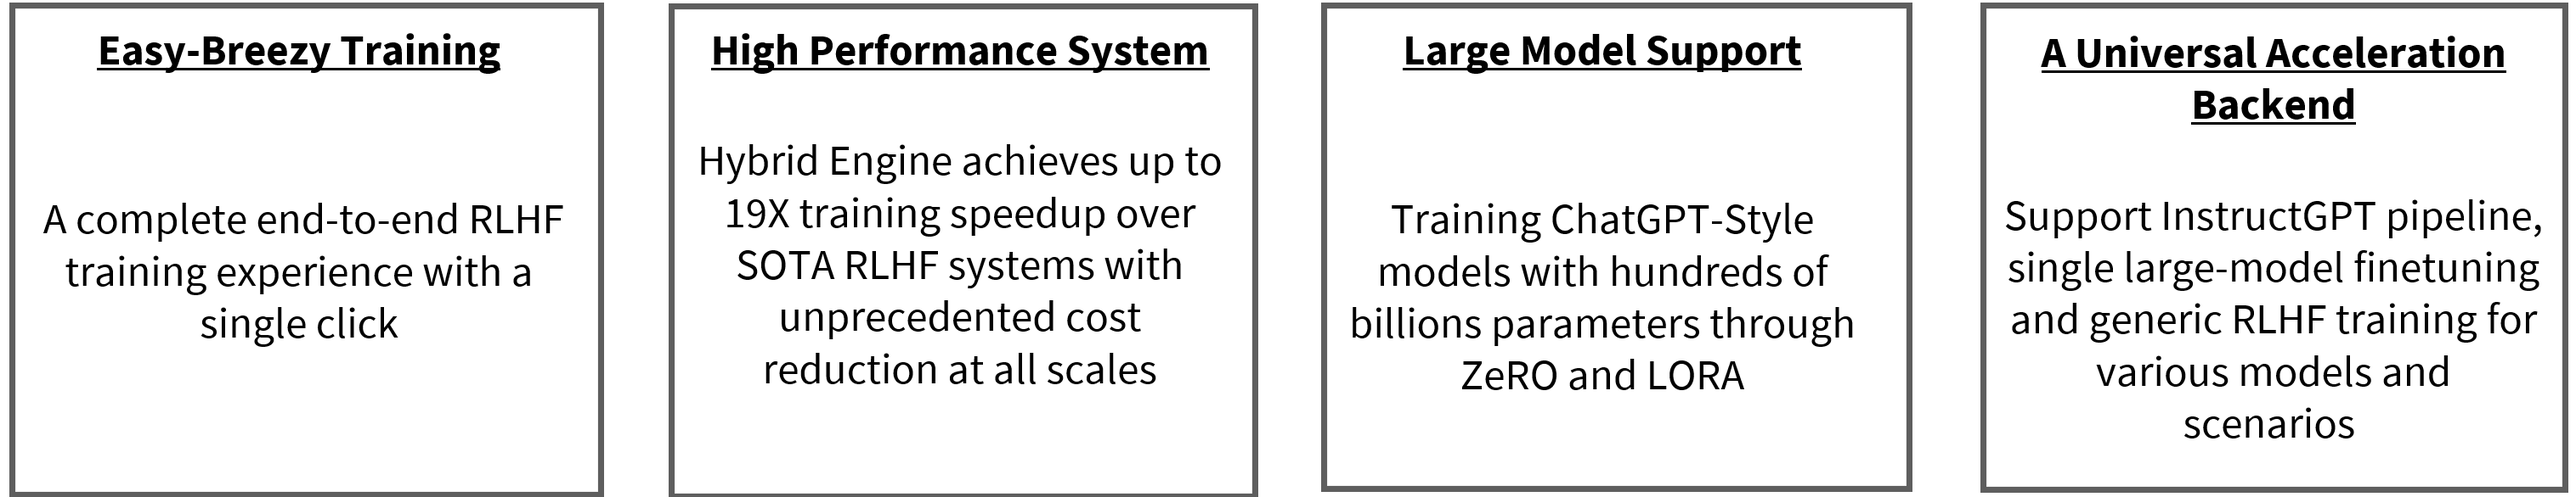
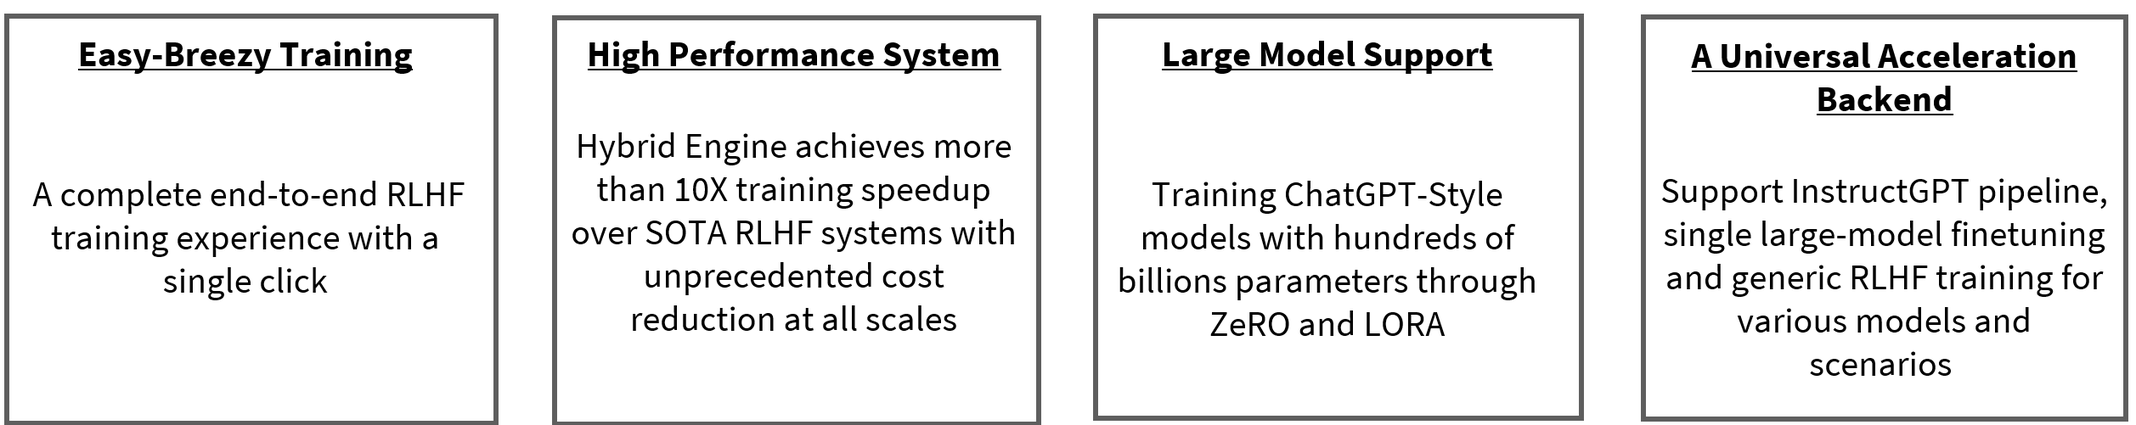
merge changes manually from landing page branch.

diff --git a/applications/DeepSpeed-Chat/README.md b/applications/DeepSpeed-Chat/README.md
@@ -59,7 +59,6 @@ A fast, affordable, scalable and open system framework for enabling end-to-end R
 - [⚓ Documentation and Tutorial ⚓](#-documentation-and-tutorial-)
 - [🌱 DeepSpeed Chat's Roadmap 🌱](#-deepspeed-chats-roadmap-)
 - [💬 DeepSpeed Chat and DeepSpeed Community 💬](#-deepspeed-chat-and-deepspeed-community-)
-- [🗄 DeepSpeed and DeepSpeed Chat Upholds the Open-Source Spirit! 🗄](#-deepspeed-and-deepspeed-chat-upholds-the-open-source-spirit-)
 - [🙏 Acknowledgement and Citation 🙏](#-acknowledgement-and-citation-)
 
 <!-- markdown-toc end -->
@@ -293,7 +292,7 @@ python chatbot.py --path  ${PATH-to-your-actor-model}
 
 ### 🐲 Superior Model Scale and Low Training Cost 
 
-A comprehensive view of the scale and end-to-end training times enabled by DeepSpeed-RLHF system are presented in Table 1. It also demonstrates the most cost-effective way to train models in Azure Cloud [^1] along with the associated cost. 
+A comprehensive view of the scale and end-to-end training times enabled by DeepSpeed-RLHF system are presented in Table 1. It also demonstrates the most cost-effective way to train models in Azure Cloud along with the associated cost. 
 
 
 | GPU SKUs      | OPT-1.3B      | OPT-6.7B       | OPT-13.2B       | OPT-30B       | OPT-66B           | Bloom-175B      |
@@ -309,13 +308,19 @@ A comprehensive view of the scale and end-to-end training times enabled by DeepS
 Table 1. End-to-end RLHF training (Step 3) for different actor model sizes and a fixed 350M critical model running on hardware ranging from single consumer grade GPU (NVIDIA A6000) to a more powerful cloud setup (64xA100-80GPUs).  
 </p>
 
-[^1]: The numbers in the table above are for Stage 3 of the training and based on actual measured training throughput on DeepSpeed-RLHF curated dataset and training recipe which trains for one epoch on a total of 135M tokens (6 open-sourced datasets with 40% used for RLHF training stage, i.e., Dahoas/rm-static, Dahoas/full-hh-rlhf, Dahoas/synthetic-instruct-gptj-pairwise, yitingxie/rlhf-reward-datasets, openai/webgpt_comparisons, and stanfordnlp/SHP from Huggingface Datasets. More specifically, we have in total 67.5M query tokens (131.9k queries with sequence length 256) and 67.5M generated tokens (131.9k answers with sequence length 256), and a maximum global batch size per step of 0.5M tokens (1024 query-answer pairs). We urge readers to pay attention to these specifications before making any cost and e2e time comparisons with DeepSpeed-RLHF.
+<details><summary> ⭕ Very Important Experimental Setup Details ⭕</summary><p>
+
+The numbers in the table above are for Stage 3 of the training and based on actual measured training throughput on DeepSpeed-RLHF curated dataset and training recipe which trains for one epoch on a total of 135M tokens (6 open-sourced datasets with 40% used for RLHF training stage, i.e., Dahoas/rm-static, Dahoas/full-hh-rlhf, Dahoas/synthetic-instruct-gptj-pairwise, yitingxie/rlhf-reward-datasets, openai/webgpt_comparisons, and stanfordnlp/SHP from Huggingface Datasets. More specifically, we have in total 67.5M query tokens (131.9k queries with sequence length 256) and 67.5M generated tokens (131.9k answers with sequence length 256), and a maximum global batch size per step of 0.5M tokens (1024 query-answer pairs). We urge readers to pay attention to these specifications before making any cost and e2e time comparisons with DeepSpeed-RLHF.
+
+ </p></details>
+
+
 
 ### 🐲 Throughput and Model Size Scalability Comparisons with Existing RLHF Systems
 
 &nbsp;&nbsp;***(I) Single-GPU's Model Scale and Throughput Comparision***
 
-&nbsp;&nbsp;With over an order of magnitude higher throughput, DeepSpeed-Chat unlocks the ability to train significantly larger actor models under the same latency budget or train models of similar size at over 10x lower cost, compared to the existing systems like Colossal-AI or HuggingFace-DDP. 
+&nbsp;&nbsp;With over an order of magnitude higher throughput, DeepSpeed-Chat unlocks the ability to train significantly larger actor models under the same latency budget or train models of similar size at much lower cost, compared to the existing systems like Colossal-AI or HuggingFace-DDP. For example, on a single GPU, DeepSpeed enables over **10X** throughput improvement for RLHF training on a single GPU. While both CAI-Coati and HF-DDP can run a max model size of 1.3B, DeepSpeed can run 6.5B model on the same hardware, **5x** higher.  
 
 <p align="center">
 
@@ -325,6 +330,8 @@ Figure 2: Step 3 throughput comparison against two other system frameworks (Colo
 </p>
 
 &nbsp;&nbsp;***(II) Single-Node Multi-GPU Model Scale and Throughput Comparision***
+
+On multi-GPUs of a single node, DeepSpeed-Chat enables **6-19X** speedup over CAI-Coati and **1.4-10.5X** speedup over HF-DDP (Figure 3) with respect to system throughput.   
 
 <p align="center">
 
@@ -355,8 +362,8 @@ DeepSpeed Chat's model support will continue to grow over time to including emer
 
 model family | size range 
 ------ | ------ 
-[bloom](https://huggingface.co/models?other=bloom) | 0.3B - 176B 
 [opt](https://huggingface.co/models?other=opt) | 0.1B - 66B 
+[bloom](https://huggingface.co/models?other=bloom) | 0.3B - 176B 
 [gpt\_neox](https://huggingface.co/models?other=gpt_neox) | 1.3B - 20B 
 [gptj](https://huggingface.co/models?other=gptj) | 1.4B - 6B 
 [gpt\_neo](https://huggingface.co/models?other=gpt_neo) | 0.1B - 2.7B 
@@ -380,7 +387,6 @@ Our future plan includes but not limited to :
 - [ ] System support and finetuning for LLaMA 
 - [ ] Generalizing DeepSpeed-RLHF abstraction and system support for a wide range of RL algorithms/paradigms
 - [ ] Complete support and scoring for multi-round conversation system
-- [ ] Training some of the largest ChatGPT models on the market, e.g., 530B. 
 - [ ] Further in-depth compression+kernel+fusion optimizations for accelerating autoregressive generation phase
 
 
@@ -393,9 +399,6 @@ Just like how the success of [the BLOOM model](https://huggingface.co/bigscience
 - Currently we prefer to interact with open source users mainly on GitHub so that it's easier for all users to search for related information. For bug report, please submit a GitHub issue. For contribution, please submit a pull request (PR). For general question/discussion, please open a new discussion or join any existing discussions.
 - We are open to collaborations with universities, research labs, companies, such as working together on deep learning research, applying DeepSpeed to empower real-world AI models and applications, and so on. For such requests (and other requests unsuitable for GitHub), please directly email to deepspeed-info@microsoft.com.
 
-## 🗄 Data 🗄
-
-The data-set for this project consists of 10,000 conversations from various sources thanks to the contributor from HuggingFace. These can be accessed under the `utils/data` folder. Each conversation consists of a series of user messages followed by the corresponding chatbot responses, separated by a newline character.
 
 ## 🙏 Acknowledgement and Citation 🙏
 
